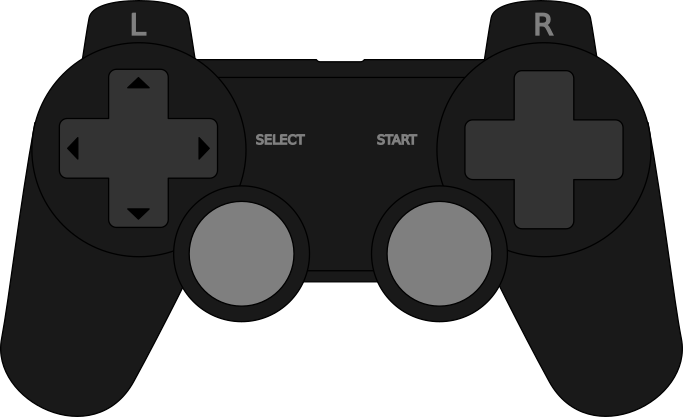
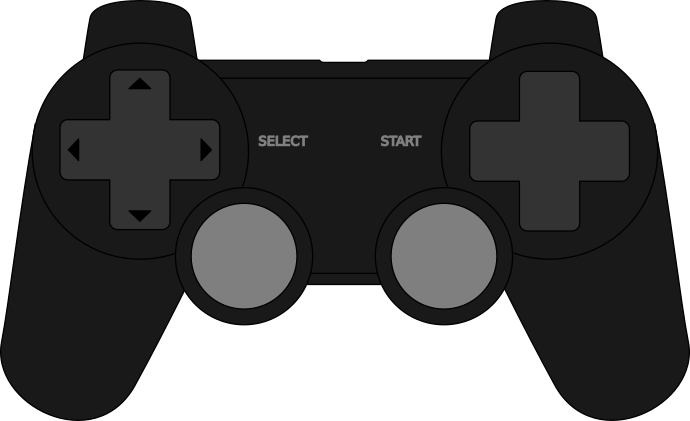
Adding missing buttons

Changed region(s): [[0.3075, 0.1247, 0.7072, 0.1559], [0.7687, 0.0312, 0.8302, 0.0935], [0.1845, 0.0312, 0.2152, 0.0935]]

diff --git a/edit_area.py b/edit_area.py
@@ -45,7 +45,7 @@ class Image:
         self.pixbuf = None
         self.width = 0
         self.height = 0
-    
+
     @classmethod
     def new_from_file(self, file):
         image = Image()
@@ -57,8 +57,8 @@ class Image:
         return image
 
     @classmethod
-    def new_from_name(self, name):
-        return Image.new_from_file(U.get_drawable_image(name))
+    def new_from_name(self, name, resp_name=None):
+        return Image.new_from_file(U.get_drawable_image(name, resp_name))
 
 
 class DrawableObject(GObject.GObject):
@@ -78,7 +78,9 @@ class DrawableObject(GObject.GObject):
         self.image = image
 
         self.rect.set_pos(x, y)
-        self.rect.set_size(self.image.width, self.image.height)
+
+        if self.image is not None:
+            self.rect.set_size(self.image.width, self.image.height)
 
         self.emit("redraw")
 
@@ -114,20 +116,14 @@ class SpecialDrawableButton(DrawableButton):
     def __init__(self, name):
         DrawableButton.__init__(self, False)
 
-        self.ireleased = Image.new_from_name(name)
-        self.ipressed = Image.new_from_name(name + "-pressed")
+        if name in C.PLAYSTATION_MAP:
+            self.rect.set_pos(*C.PLAYSTATION_MAP[name])
 
-        if name == "triangle":
-            self.rect.set_pos(520, 83.49)
+        if "trigger" in name:
+            name = "trigger"
 
-        elif name == "circle":
-            self.rect.set_pos(570.932, 133.0)
-
-        elif name == "x":
-            self.rect.set_pos(520, 184.508)
-
-        elif name == "square":
-            self.rect.set_pos(469.856, 133.0)
+        self.ireleased = Image.new_from_name(name, "button")
+        self.ipressed = Image.new_from_name(name + "-pressed", "button-pressed")
 
         self.set_image(self.ireleased)
 
@@ -178,17 +174,17 @@ class Direccional(DrawableObject):
         if self.x == 0:
             if self.y == 0:
                 self.set_direction(C.Direction.NONE)
-            
+
             elif self.y < 0:
                 self.set_direction(C.Direction.UP)
-            
+
             elif self.y > 0:
                 self.set_direction(C.Direction.DOWN)
 
         elif self.x < 0:
             if self.y == 0:
                 self.set_direction(C.Direction.LEFT)
-            
+
             elif self.y < 0:
                 self.set_direction(C.Direction.LEFT + C.Direction.UP)
 
@@ -198,7 +194,7 @@ class Direccional(DrawableObject):
         elif self.x > 0:
             if self.y == 0:
                 self.set_direction(C.Direction.RIGHT)
-            
+
             elif self.y < 0:
                 self.set_direction(C.Direction.RIGHT + C.Direction.UP)
 
@@ -221,11 +217,8 @@ class Stick(Direccional):
         self.images[C.Direction.LEFT] =                     Image.new_from_name("stick-left")
         self.images[C.Direction.LEFT + C.Direction.UP] =    Image.new_from_name("stick-left-up")
 
-        if name == "left-stick":
-            self.rect.set_pos(194.141, 214.023)
-
-        elif name == "right-stick":
-            self.rect.set_pos(394.057, 214.023)
+        if name in C.PLAYSTATION_MAP.keys():
+            self.rect.set_pos(*C.PLAYSTATION_MAP[name])
 
         self.set_image(self.images[C.Direction.NONE])
 
@@ -245,7 +238,9 @@ class DPad(Direccional):
         self.images[C.Direction.LEFT] =                     Image.new_from_name("dpad-left")
         self.images[C.Direction.LEFT + C.Direction.UP] =    Image.new_from_name("dpad-left-up")
 
-        self.rect.set_pos(84.761, 102.339)
+        if "dpad" in C.PLAYSTATION_MAP:
+            self.rect.set_pos(*C.PLAYSTATION_MAP["dpad"])
+
         self.set_image(self.images[C.Direction.NONE])
 
 
@@ -263,12 +258,12 @@ class DrawableJoystick(GObject.GObject):
 
         self.objects = {}
 
-        for x in ["triangle", "circle", "x", "square"]:
-            self.objects[x] = SpecialDrawableButton(x)
+        for name in C.TRANSLATED_BUTTONS.values():
+            self.objects[name] = SpecialDrawableButton(name)
 
-        for x in ["left-stick", "right-stick"]:
-            self.objects[x] = Stick(x)
-        
+        for stick in ["left-stick", "right-stick"]:
+            self.objects[stick] = Stick(stick)
+
         self.objects["dpad"] = DPad()
 
         for name in self.objects.keys():
@@ -286,7 +281,7 @@ class DrawableJoystick(GObject.GObject):
         if self.joystick is not None:
             # TODO: disconnect
             pass
-        
+
         self.joystick = joy
         self.joystick.connect("button-pressed", self._pressed_cb)
         self.joystick.connect("button-released", self._released_cb)
@@ -296,19 +291,19 @@ class DrawableJoystick(GObject.GObject):
         self.emit("redraw")  # TODO: send a region to redraw
 
     def _pressed_cb(self, joy, button):
-        data = {"trigger": "triangle", "thumb": "circle", "thumb2": "x", "top": "square"}
-        if button in data:
-            self.objects[data[button]].set_pressed(True)
+        if button in C.TRANSLATED_BUTTONS:
+            name = C.TRANSLATED_BUTTONS[button]
+            self.objects[name].set_pressed(True)
 
     def _released_cb(self, joy, button):
-        data = {"trigger": "triangle", "thumb": "circle", "thumb2": "x", "top": "square"}
-        if button in data:
-            self.objects[data[button]].set_pressed(False)
+        if button in C.TRANSLATED_BUTTONS:
+            name = C.TRANSLATED_BUTTONS[button]
+            self.objects[name].set_pressed(False)
 
     def _axis_moved_cb(self, joy, axis, value):
         if axis == "x":
             self.objects["left-stick"].set_x(value)
-        
+
         elif axis == "y":
             self.objects["left-stick"].set_y(value)
 
@@ -320,9 +315,10 @@ class DrawableJoystick(GObject.GObject):
 
         elif axis == "hat0x":
             self.objects["dpad"].set_x(value)
-        
+
         elif axis == "hat0y":
             self.objects["dpad"].set_y(value)
+
 
 class EditArea(Gtk.DrawingArea):
 
@@ -343,7 +339,12 @@ class EditArea(Gtk.DrawingArea):
         Gdk.cairo_set_source_pixbuf(context, self.drawable.background, 0, 7)
         context.paint()
 
-        for name in self.drawable.objects.keys():
+        list = self.drawable.objects.keys()
+        for name in C.FRONT_OBJECTS:
+            list.remove(name)
+            list.insert(-1, name)
+
+        for name in list:
             self.draw_object(context, self.drawable.objects[name])
 
     def draw_object(self, context, object):

diff --git a/consts.py b/consts.py
@@ -76,6 +76,46 @@ BUTTONS = {
 }
 
 
+TRANSLATED_BUTTONS = {
+    "base": "l1",
+    "base2": "r1",
+    "trigger": "triangle",
+    "thumb": "circle",
+    "thumb2": "x",
+    "top": "square",
+    "base3": "select",
+    "base4": "start",
+    "top2": "trigger-left",
+    "pinkie": "trigger-right",
+    "base5": "l3",
+    "base6": "r3",
+}
+
+
+PLAYSTATION_MAP = {
+    "triangle": (526, 83),
+    "circle": (576, 134),
+    "x": (526, 185),
+    "square": (475, 134),
+    "start": (386, 158),
+    "select": (263, 159),
+    "trigger-left": (0, 0),
+    "trigger-right": (593, 0),
+    "l3": (220, 238),
+    "r3": (420, 238),
+    "l1": (99, 0),
+    "r1": (506, 0),
+    "left-stick": (197, 216),
+    "right-stick": (397, 216),
+    "dpad": (86, 103),
+}
+
+
+FRONT_OBJECTS = [
+    "l3",
+    "r3"
+]
+
 class Direction:
     UP = "up"
     RIGHT = "right"

diff --git a/utils.py b/utils.py
@@ -63,14 +63,23 @@ def get_gamepad_image(name):
     return os.path.join(os.path.dirname(__file__), "data", "gamepads", name + ".png")
 
 
-def get_drawable_image(name):
-    return os.path.join(os.path.dirname(__file__), "data", "icons", name + ".png")
+def get_drawable_image(name, resp_name=None):
+    file = os.path.join(os.path.dirname(__file__), "data", "icons", name + ".png")
+    if os.path.exists(file):
+        return file
+
+    if resp_name is not None:
+        return get_drawable_image(resp_name)
+
+    else:
+        # Error
+        return None
 
 
 def abs(value):
     if value > 0:
         return 1
-    
+
     elif value < 0:
         return -1
 
